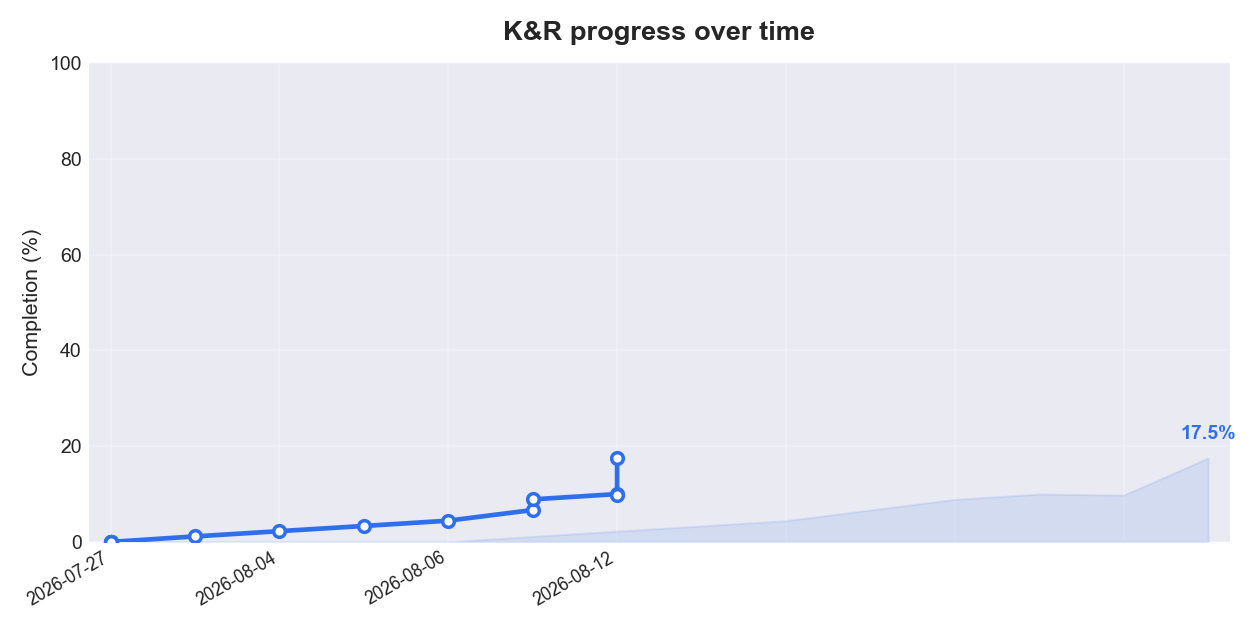
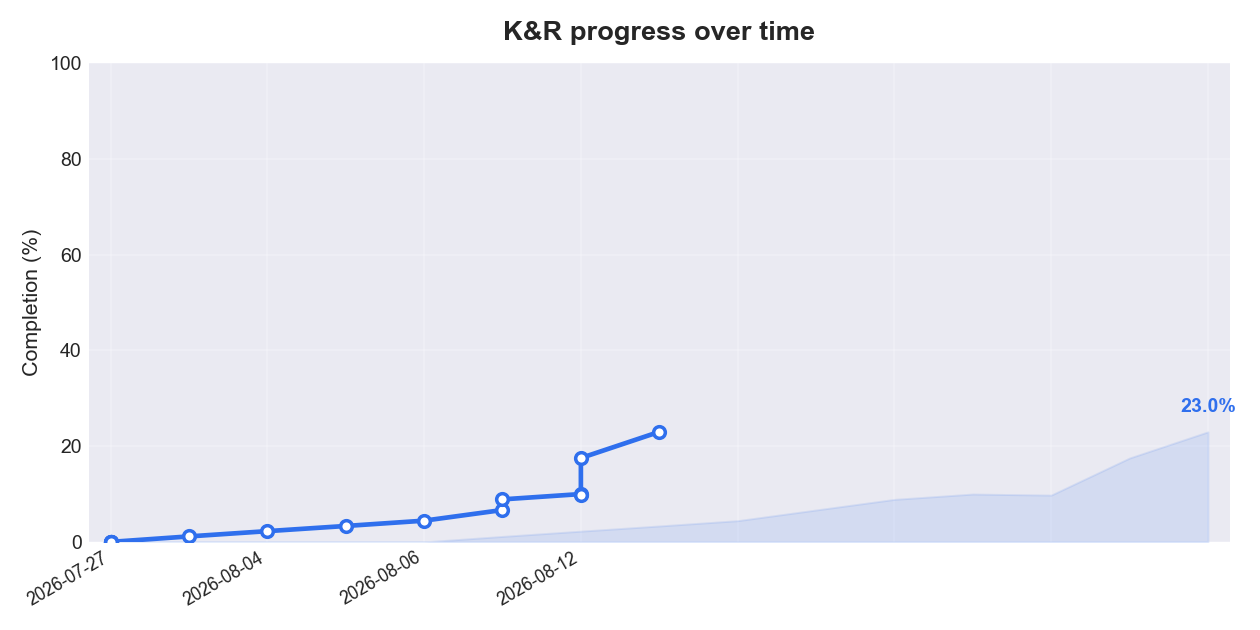
Update progress tracker

diff --git a/TRACKER.md b/TRACKER.md
@@ -2,17 +2,17 @@
 
 Auto-generated by `scripts/update_tracker.py`. Do not edit by hand.
 
-_Last updated: 2026-08-12_
+_Last updated: 2026-08-14_
 
 ## Overall
 
-**17.5% complete** `[####--------------------]`
+**23.0% complete** `[######------------------]`
 
 | Metric | Done | Total |
 | --- | --- | --- |
-| Section notes | 5 | 77 |
+| Section notes | 8 | 77 |
 | Chapter summaries | 0 | 8 |
-| Exercises solved | 12 | 12 |
+| Exercises solved | 15 | 15 |
 
 ## Progress over time
 
@@ -22,7 +22,7 @@ _Last updated: 2026-08-12_
 
 | Chapter | Notes | Summary | Exercises |
 | --- | :---: | :---: | :---: |
-| 1. A Tutorial Introduction | 5 / 10 | - | 12 / 12 |
+| 1. A Tutorial Introduction | 8 / 10 | - | 15 / 15 |
 | 2. Types, Operators and Expressions | 0 / 12 | - | 0 / 0 |
 | 3. Control Flow | 0 / 8 | - | 0 / 0 |
 | 4. Functions and Program Structure | 0 / 11 | - | 0 / 0 |
@@ -44,9 +44,9 @@ _Last updated: 2026-08-12_
 | 1.3 | The for statement | yes | - | 1 / 1 |
 | 1.4 | Symbolic Constants | yes | - | 0 / 0 |
 | 1.5 | Character Input and Output | yes | - | 7 / 7 |
-| 1.6 | Arrays | - | - | 0 / 0 |
-| 1.7 | Functions | - | - | 0 / 0 |
-| 1.8 | Arguments - Call by Value | - | - | 0 / 0 |
+| 1.6 | Arrays | yes | - | 2 / 2 |
+| 1.7 | Functions | yes | - | 1 / 1 |
+| 1.8 | Arguments - Call by Value | yes | - | 0 / 0 |
 | 1.9 | Character Arrays | - | - | 0 / 0 |
 | 1.10 | External Variables and Scope | - | - | 0 / 0 |
 
